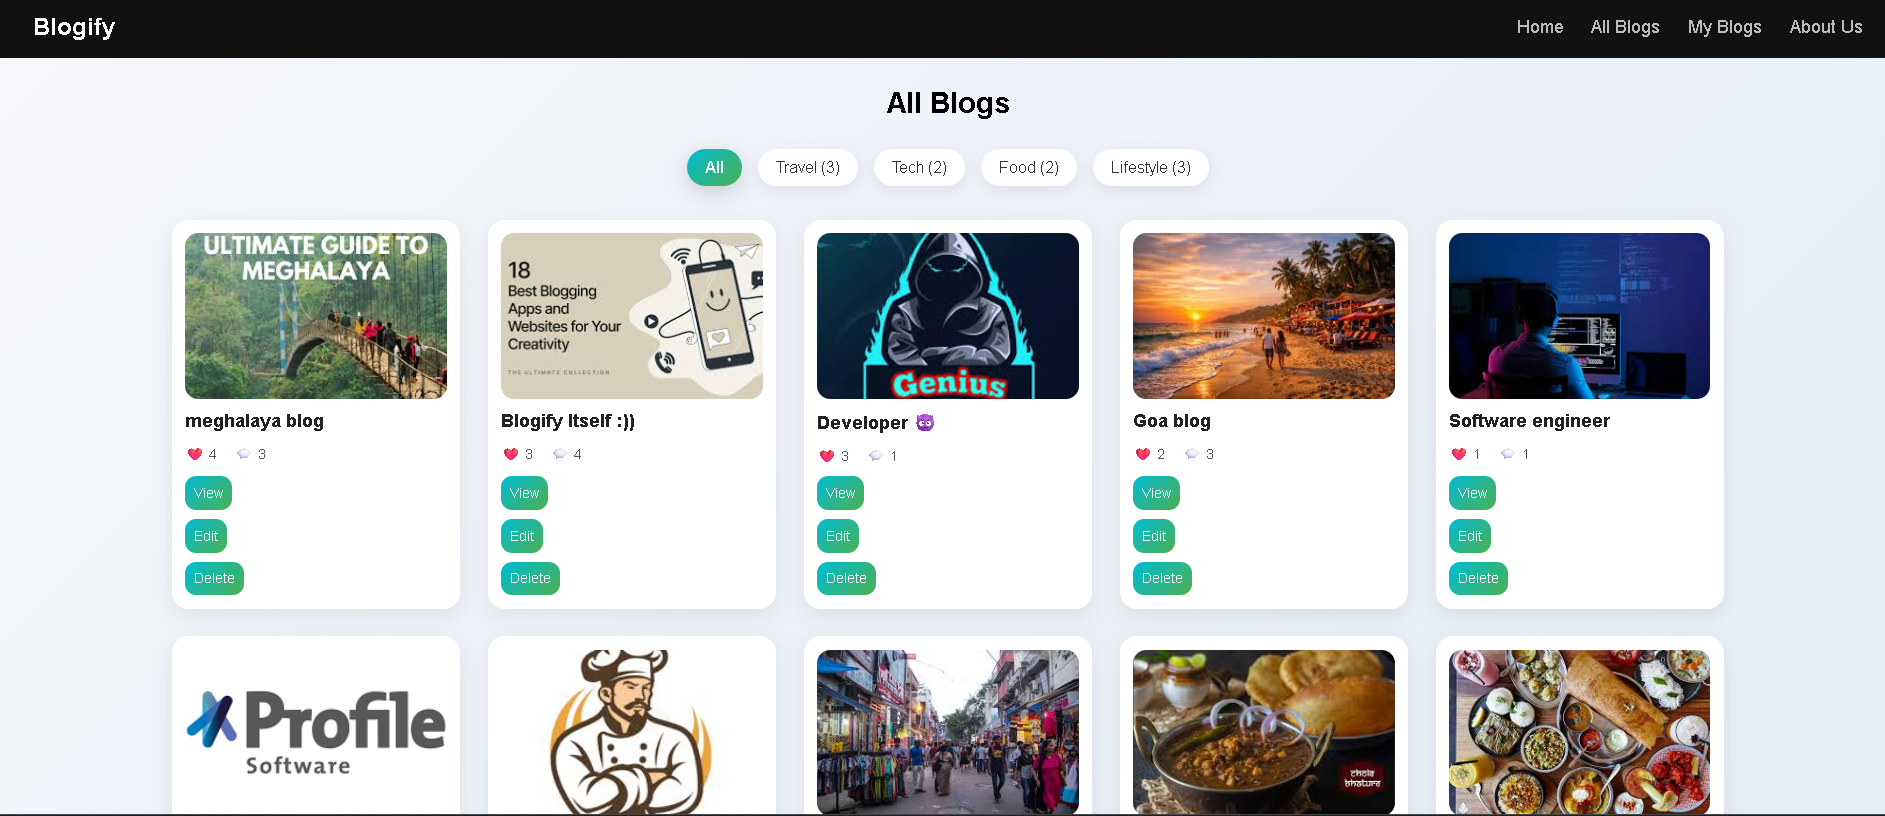
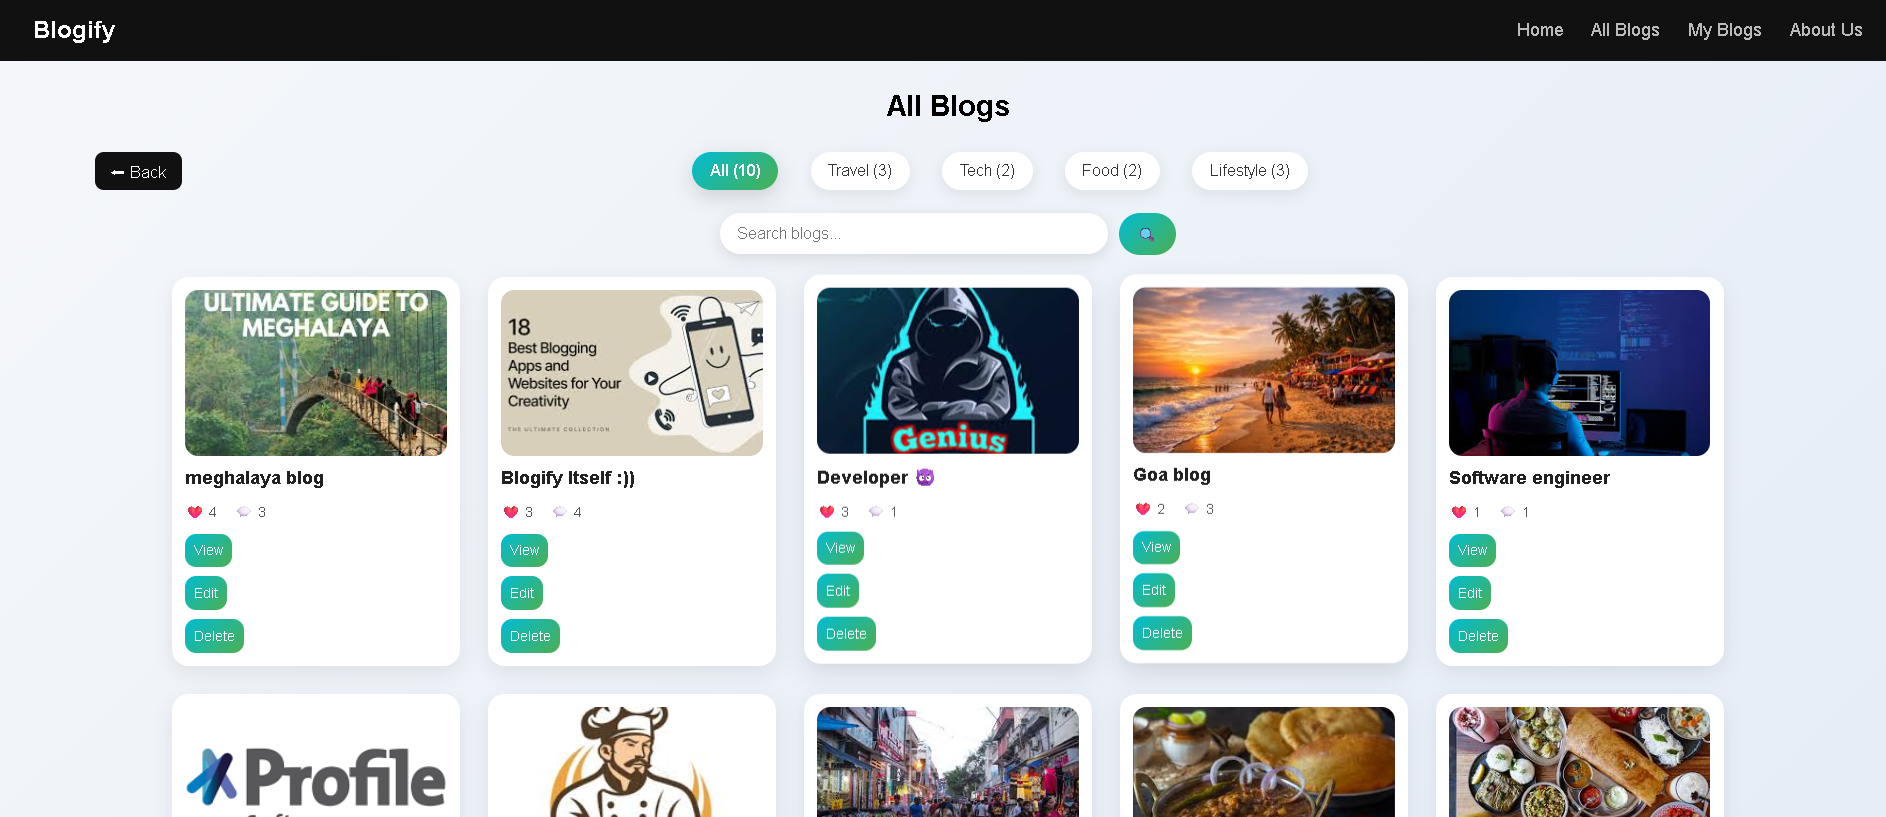
Added the search box feature in all blogs route using the mongo db text index concept to make a blog searching faster

diff --git a/public/stylesheets/allblogs.css b/public/stylesheets/allblogs.css
@@ -9,7 +9,7 @@ body {
     background: linear-gradient(135deg, #f5f7fa, #e4ecf7);
 }
 
-/* Navbar */
+/* ================= NAVBAR ================= */
 .navbar {
     position: sticky;
     top: 0;
@@ -45,20 +45,48 @@ body {
     color: #fff;
 }
 
-/* Heading */
+/* ================= HEADING ================= */
 .heading {
     text-align: center;
     margin: 25px 0;
     font-size: 26px;
 }
 
-/* 🔥 Category Bar */
+/* ================= TOP BAR ================= */
+.top-bar {
+    width: 90%;
+    margin: auto;
+
+    display: flex;
+    align-items: center;
+    justify-content: space-between;
+    flex-wrap: wrap;
+
+    gap: 15px;
+}
+
+/* BACK BUTTON */
+.back-btn {
+    text-decoration: none;
+    background: #111;
+    color: white;
+    padding: 8px 14px;
+    border-radius: 8px;
+    font-size: 14px;
+    transition: 0.3s;
+}
+
+.back-btn:hover {
+    background: #333;
+}
+
+/* ================= CATEGORY BAR ================= */
 .category-bar {
     display: flex;
-    justify-content: center;
-    gap: 15px;
-    margin-bottom: 30px;
+    gap: 29px;
     flex-wrap: wrap;
+    justify-content: center;   /* 🔥 important fix */
+    flex: 1;                     /* 🔥 take remaining space */
 }
 
 .category-bar a {
@@ -74,12 +102,10 @@ body {
     transition: 0.3s;
 }
 
-/* 🔥 Active Category */
 .category-bar a.active {
     background: linear-gradient(135deg, #00bcd4, #4caf50);
     color: white;
     font-weight: 600;
-
     box-shadow: 0 6px 18px rgba(0,0,0,0.15);
 }
 
@@ -89,7 +115,47 @@ body {
     transform: translateY(-2px);
 }
 
-/* Blog Grid */
+/* ================= SEARCH ================= */
+.search-box {
+    width: 90%;
+    margin: 20px auto;
+
+    display: flex;
+    justify-content: center;
+    align-items: center;
+    gap: 10px;
+}
+
+.search-box input {
+    width: 350px;
+    max-width: 80%;
+    padding: 10px 15px;
+    border-radius: 25px;
+    border: none;
+    outline: none;
+
+    box-shadow: 0 4px 12px rgba(0,0,0,0.1);
+    font-size: 14px;
+}
+
+.search-box button {
+    padding: 10px 16px;
+    border-radius: 25px;
+    border: none;
+
+    background: linear-gradient(135deg, #00bcd4, #4caf50);
+    color: white;
+    cursor: pointer;
+
+    transition: 0.3s;
+}
+
+.search-box button:hover {
+    transform: translateY(-2px);
+    box-shadow: 0 6px 18px rgba(0,0,0,0.2);
+}
+
+/* ================= BLOG GRID ================= */
 .blog-container {
     width: 90%;
     margin: auto;
@@ -100,7 +166,7 @@ body {
     gap: 25px;
 }
 
-/* Blog Card */
+/* ================= BLOG CARD ================= */
 .blog-card {
     background: white;
     border-radius: 15px;
@@ -119,7 +185,7 @@ body {
     box-shadow: 0 12px 25px rgba(0,0,0,0.15);
 }
 
-/* Image */
+/* IMAGE */
 .blog-card img {
     width: 100%;
     height: 150px;
@@ -127,13 +193,13 @@ body {
     border-radius: 12px;
 }
 
-/* Title */
+/* TITLE */
 .blog-card h3 {
     font-size: 16px;
     color: #222;
 }
 
-/* Meta */
+/* META */
 .meta {
     display: flex;
     gap: 15px;
@@ -141,7 +207,7 @@ body {
     color: #555;
 }
 
-/* Buttons */
+/* BUTTONS */
 .btn-group {
     margin-top: auto;
     display: flex;
@@ -167,7 +233,7 @@ body {
     box-shadow: 0 5px 15px rgba(0,0,0,0.2);
 }
 
-/* No blog */
+/* NO BLOG */
 .no-blog {
     text-align: center;
     margin-top: 30px;

diff --git a/routes/staticRoutes.js b/routes/staticRoutes.js
@@ -123,6 +123,9 @@ router.get('/blog/:id/edit', authentication, authorization, async (req, res) => 
 
 router.get("/blogs", authentication, async (req, res) => {
     try {
+        const { category, search } = req.query;
+
+        // here we are couting the category of blogs using group aggregate 
         const blogsCountArr = await blogSchema.aggregate([
             {
                 $group: {
@@ -130,28 +133,36 @@ router.get("/blogs", authentication, async (req, res) => {
                     count: { $sum: 1 }
                 }
             }
-        ])
+        ]);
 
-        const blogCount = {}
-
-        blogsCountArr.forEach(element => {
-            blogCount[element._id] = element.count
+        // We are converting arr to obj
+        const blogCount = {};
+        blogsCountArr.forEach(el => {
+            blogCount[el._id] = el.count;
         });
 
-        const category = req.query.category;
-
-        let blogs;
+        let query = {};
 
         if (category) {
-            blogs = await blogSchema.find({ category: category });
-        } else {
-            blogs = await blogSchema.find({});
+            query.category = category;
         }
 
-        return res.render('allblogs', { blogs, blogCount, category });
-    }
-    catch (err) {
-        return res.status(500).send(err.message)
+    //    $text -> the searching based on text 
+    // $seach -> what to search 
+        if (search) {
+            query.$text = { $search: search };
+        }
+
+        const blogs = await blogSchema.find(query);
+
+        return res.render("allblogs", {
+            blogs,
+            blogCount,
+            category
+        });
+
+    } catch (err) {
+        return res.status(500).send(err.message);
     }
 });
 

diff --git a/public/javascripts/allblogs.js b/public/javascripts/allblogs.js
@@ -1,0 +1,8 @@
+async function searchBlogs() {
+  const value = document.getElementById("search").value;
+
+  const res = await fetch(`/filterdblogs?search=${value}`);
+  const data = await res.json();
+
+  console.log(data); // render this in UI
+}

diff --git a/README.md b/README.md
@@ -1,6 +1,5 @@
 **Blogify**
 A fully functional backend for a blogging application built with Node.js, Express, and MongoDB, supporting authentication, authorization, and interactive features like likes and comments.
-
 ## 🚀 Features
 
 ### 🔐 Authentication & Authorization
@@ -25,6 +24,16 @@ A fully functional backend for a blogging application built with Node.js, Expres
 
 ---
 
+### 🔍 Search & Filtering (NEW ✨)
+
+* Search blogs by title using MongoDB text index
+* Filter blogs by category (Travel, Tech, Food, Lifestyle)
+* Combined filtering (Search + Category together)
+* Dynamic query building in backend
+* Clean and responsive UI for filters and search
+
+---
+
 ### 💬 Interaction Features
 
 * Like / Unlike blogs
@@ -39,7 +48,6 @@ A fully functional backend for a blogging application built with Node.js, Expres
 * Authorization checks for sensitive actions (edit/delete)
 * Clean and structured backend architecture
 
----
 
 ### ⚙ Tech Stack
 
